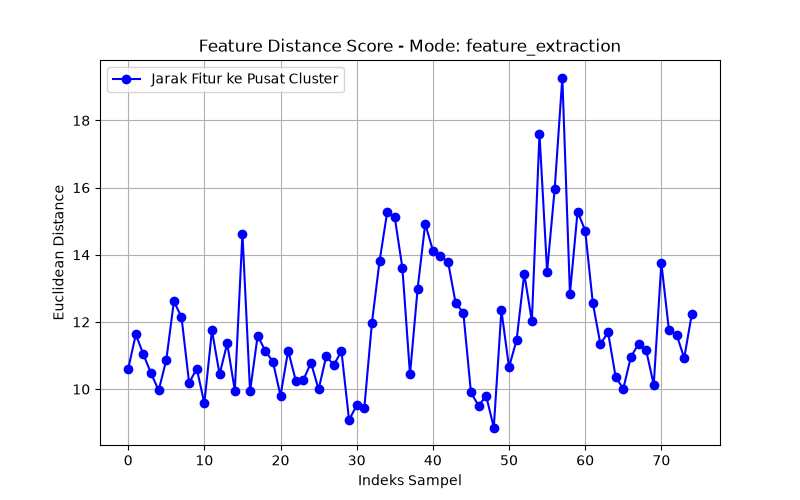
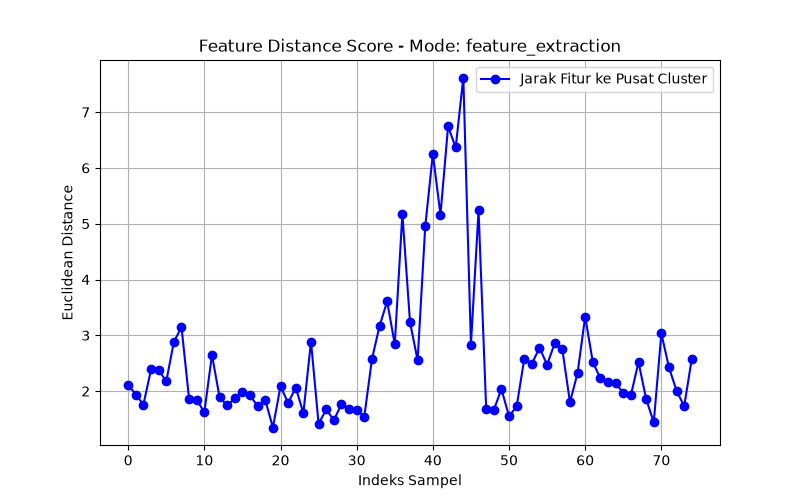
Pretrained Model using ResNet-18 Model and result plots

diff --git a/train_model.py b/train_model.py
@@ -11,16 +11,16 @@ file_paths = df['filename'].tolist()
 if len(file_paths) == 0:
     raise ValueError("Tidak ada gambar yang ditemukan di metadata.csv! Jalankan generate_metadata.py terlebih dahulu.")
 
-# 2. FUNGSI PEMBENTUK FEATURE EXTRACTOR (MOBILENETV2)
+# 2. FUNGSI PEMBENTUK FEATURE EXTRACTOR (RESNET)
 def build_feature_extractor(mode='feature_extraction'):
-    # Menggunakan tf.keras.applications yang kompatibel penuh
-    base_model = tf.keras.applications.MobileNetV2(
+    # Menggunakan pretrained ResNet50 (Bobot ImageNet)
+    base_model = tf.keras.applications.ResNet50(
         weights='imagenet', 
         include_top=False, 
         input_shape=(224, 224, 3)
     )
     
-    if mode == 'feature_extraction':        # Freeze seluruh backbone
+    if mode == 'feature_extraction':        # Freeze seluruh backbone ResNet
         base_model.trainable = False
     elif mode == 'partial_fine_tuning':     # Unfreeze 20 layer teratas
         base_model.trainable = True
@@ -38,13 +38,13 @@ results = []
 modes = ['feature_extraction', 'partial_fine_tuning', 'full_fine_tuning']
 
 print("\n==========================================")
-print("   MULAI PELATIHAN ONE-CLASS DATASET KORBAN")
+print("  MULAI PELATIHAN ONE-CLASS RESNET DATASET")
 print("==========================================")
 
 for mode in modes:
     print(f"\n---> Memproses Mode: {mode.upper()}")
     
-    # Buat feature extractor
+    # Buat feature extractor berbasis ResNet
     extractor = build_feature_extractor(mode)
     
     # Ekstrak fitur visual dari seluruh gambar korban
@@ -74,7 +74,7 @@ for mode in modes:
 
 # 4. TAMPILKAN DAN SIMPAN RINGKASAN HASIL
 df_results = pd.DataFrame(results)
-print("\n=== TABEL HASIL ANALISIS DATASET KORBAN ===")
+print("\n=== TABEL HASIL ANALISIS DATASET KORBAN (RESNET) ===")
 print(df_results.to_string(index=False))
 
 df_results.to_csv('results_summary.csv', index=False)
